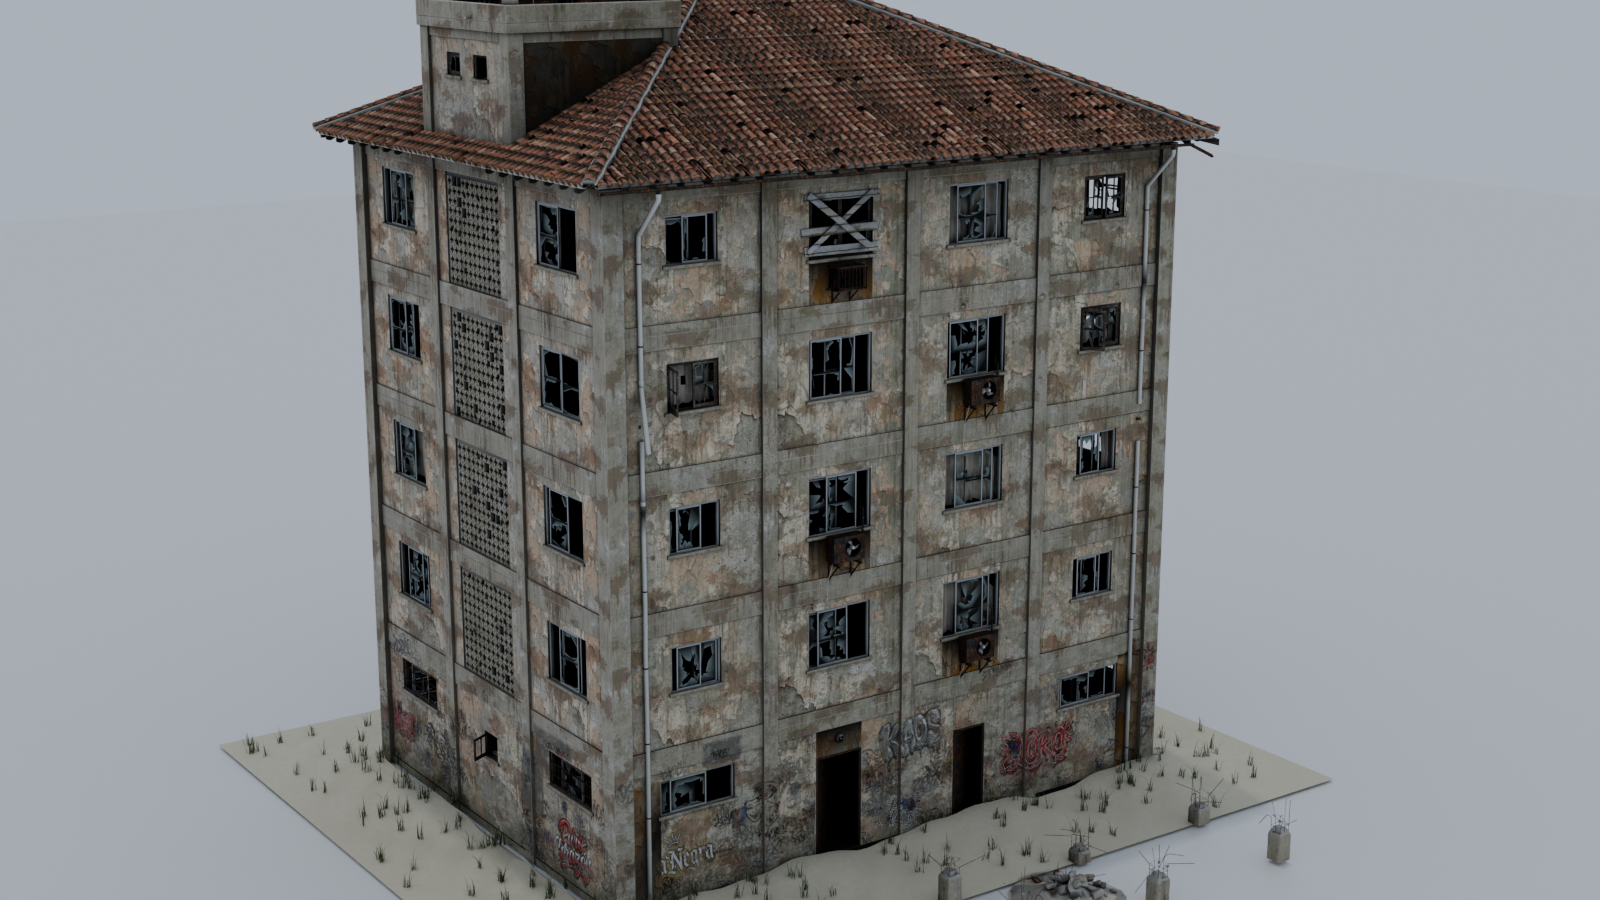
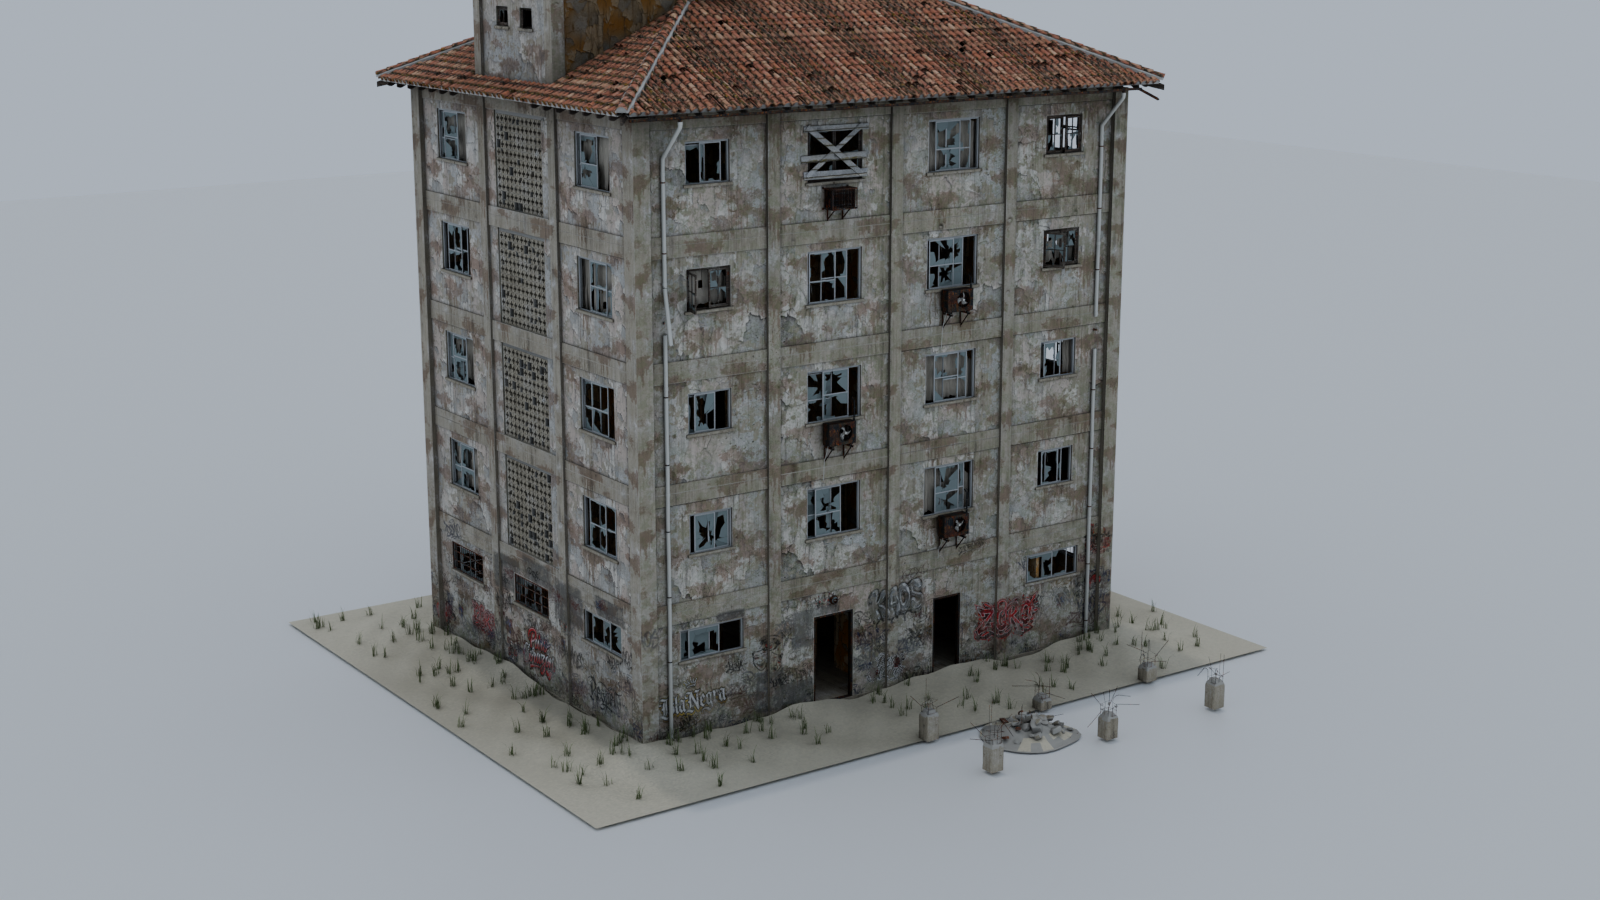
QA final: tomas de 50 m centradas en la caja y con más campo (el techo de APT_A quedaba cortado)
Claude-Session: https://claude.ai/code/session_01QzJUdvU2aDqqRZrKajniAp

diff --git a/blackisle-kit-edificios/entrega/blender/tests/render_final.py b/blackisle-kit-edificios/entrega/blender/tests/render_final.py
@@ -25,10 +25,10 @@ mx = Vector((max(p.x for p in pts), max(p.y for p in pts), max(p.z for p in pts)
 ctr = (mn + mx) / 2
 front_y = mn.y + 3.0                       # la base (arena) sobresale 3 m: la fachada está ~3 m dentro de la caja
 shots = {
-    "50m_sol45": dict(azim=-32, elev=14, dist=58.0, target=Vector((ctr.x, ctr.y, ctr.z * 0.55)), fov=40, sun_elev=45, sun_azim=40),
+    "50m_sol45": dict(azim=-32, elev=14, dist=58.0, target=Vector((ctr.x, ctr.y, ctr.z)), fov=46, sun_elev=45, sun_azim=40),
     "15m_sol45": dict(azim=-25, elev=4, dist=15.0, target=Vector((ctr.x - 1.0, front_y, 4.0)), fov=70, sun_elev=45, sun_azim=40),
     "2m_pb": dict(azim=-10, elev=2, dist=2.2, target=Vector((ctr.x - 3.0, front_y, 1.5)), fov=70, sun_elev=45, sun_azim=40),
-    "50m_nublado": dict(azim=145, elev=14, dist=58.0, target=Vector((ctr.x, ctr.y, ctr.z * 0.55)), fov=40, sun_elev=80, sun_azim=0,
+    "50m_nublado": dict(azim=145, elev=14, dist=58.0, target=Vector((ctr.x, ctr.y, ctr.z)), fov=46, sun_elev=80, sun_azim=0,
                         sun_energy=0.4, sky=1.1),
 }
 only = argv[argv.index("--only") + 1].split(",") if "--only" in argv else list(shots)
